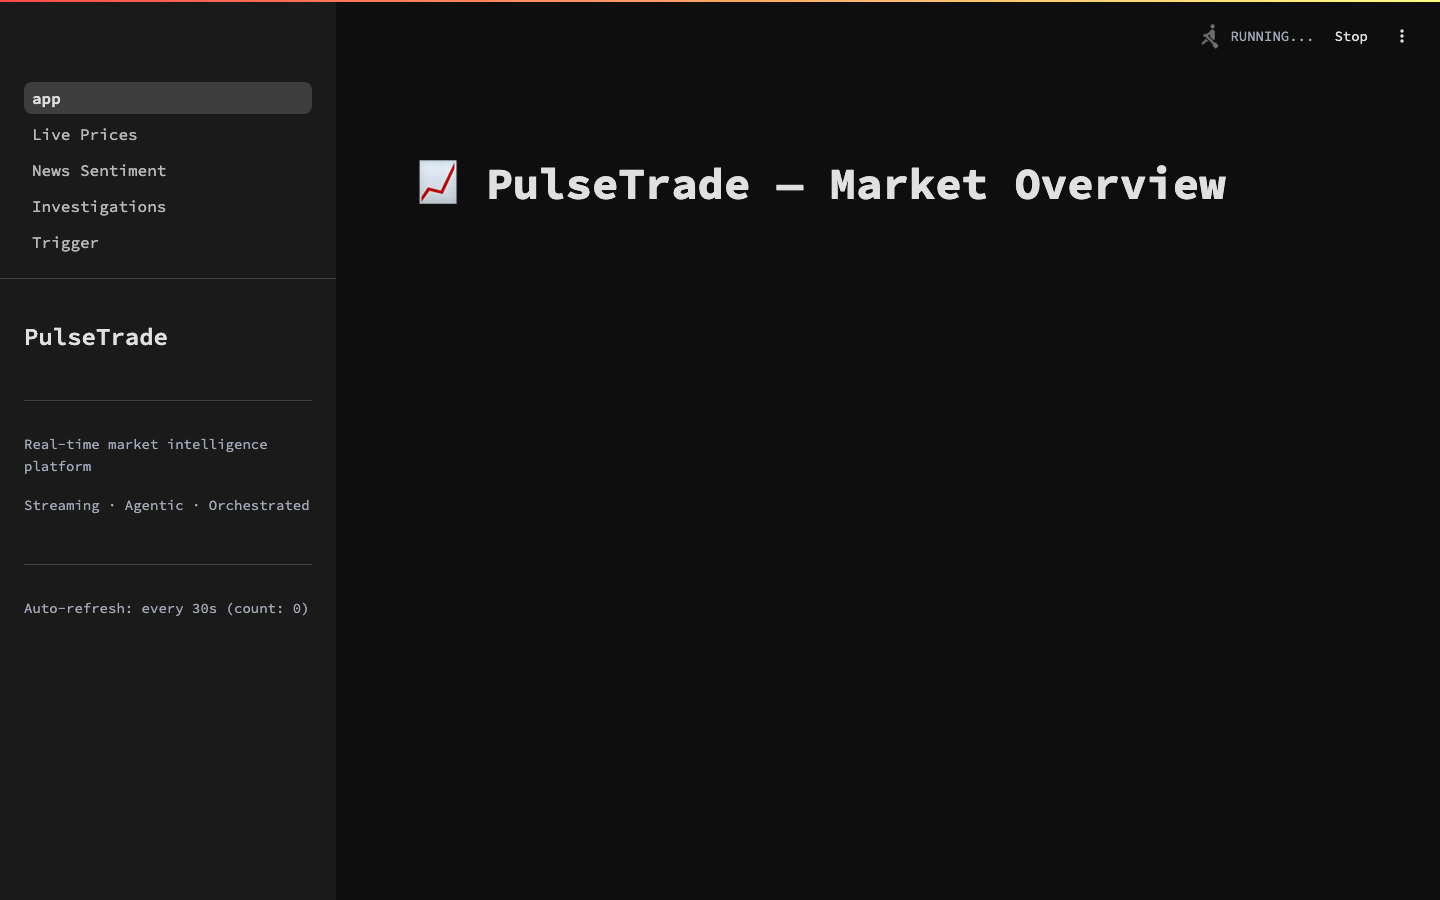
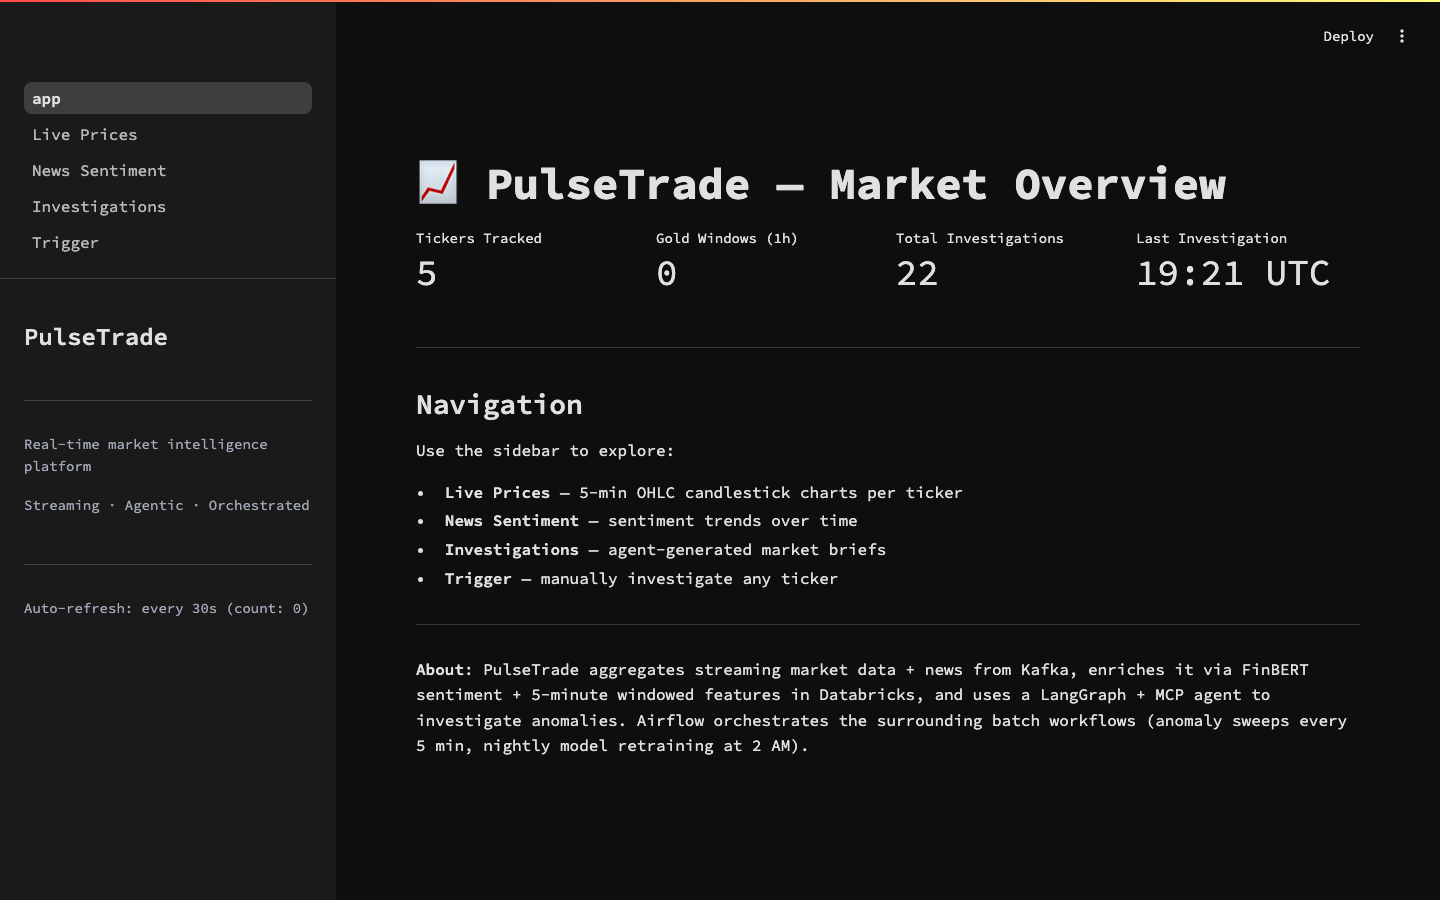
updated proof

diff --git a/api/config.py b/api/config.py
@@ -56,8 +56,10 @@ class Settings(BaseSettings):
 
     # ── MLflow ───────────────────────────────────────────────────────────────
     mlflow_tracking_uri: str = Field(default="databricks", alias="MLFLOW_TRACKING_URI")
+    # Databricks workspace experiment paths are user-scoped; set the real path
+    # via MLFLOW_EXPERIMENT_NAME in .env (e.g. /Users/<workspace-user>/pulsetrade-anomaly-detector).
     mlflow_experiment_name: str = Field(
-        default="/Users/madhusiddharths1@gmail.com/pulsetrade-anomaly-detector",
+        default="/Shared/pulsetrade-anomaly-detector",
         alias="MLFLOW_EXPERIMENT_NAME",
     )
 

diff --git a/docs/daily/day12.md b/docs/daily/day12.md
@@ -24,7 +24,7 @@ after capturing evidence; total cost ~$0.15.
   infra. Teardown is non-negotiable (`gcloud container clusters delete`).
 
 ## Phase sequence (what was actually done)
-1. **Prereqs** — gcloud 553, kubectl 1.34, authed as madhusiddharths1@gmail.com.
+1. **Prereqs** — gcloud 553, kubectl 1.34, authed with the project owner account.
    Installed `gke-gcloud-auth-plugin` (needed PATH fix: SDK bin at
    `/opt/homebrew/share/google-cloud-sdk/bin` wasn't on PATH; added to .zshrc).
    Confirmed billing enabled on project gen-lang-client-0874026413
